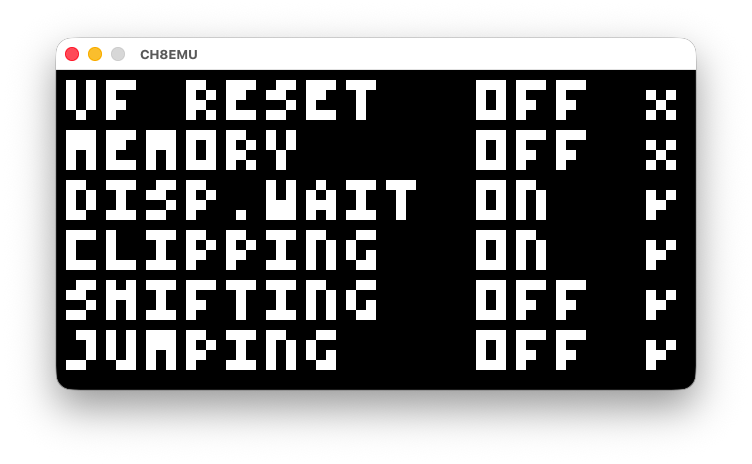
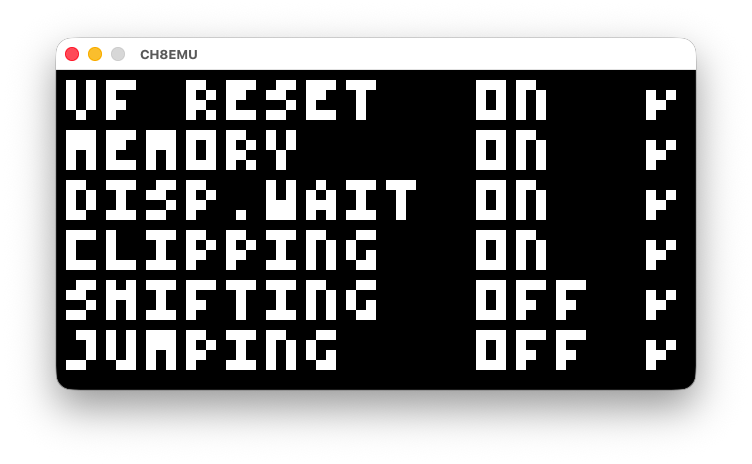
BUGFIX: quirks.ch8 test rom pass

diff --git a/CHIP8/Source/CH8CPU.cpp b/CHIP8/Source/CH8CPU.cpp
@@ -48,7 +48,16 @@ bool CH8CPU::decode() {
             return true;
         }
     }
-    matchedInstruction = { "UNKNOWN", 0x0000, 0x0000, &CH8CPU::opInvalid, 2, 1 };
+    
+    // SAFE FALLBACK: Explicitly define fields cleanly without direct compound literal assignments 
+    // that confuse release-mode stack alignment checking.
+    matchedInstruction.mnemonic = "UNKNOWN";
+    matchedInstruction.mask = 0x0000;
+    matchedInstruction.id = 0x0000;
+    matchedInstruction.handler = &CH8CPU::opInvalid;
+    matchedInstruction.length = 2;
+    matchedInstruction.cycles = 1;
+
     return false;
 }
 
@@ -77,10 +86,18 @@ void CH8CPU::opArithmetic(Uint16 op) {
     Uint8 y = (op & 0x00F0) >> 4;
     switch (op & 0x000F) {
     case 0x0: V[x] = V[y]; break;
-    case 0x1: V[x] |= V[y]; break;
-    case 0x2: V[x] &= V[y]; break;
-    case 0x3: V[x] ^= V[y]; break;
-    
+    case 0x1:
+        V[x] |= V[y]; 
+        V[0xF] = 0; // Force-clear VF flag for original CHIP-8 behavior
+        break;
+    case 0x2:
+        V[x] &= V[y]; 
+        V[0xF] = 0; // Force-clear VF flag for original CHIP-8 behavior
+        break;
+    case 0x3:
+        V[x] ^= V[y]; 
+        V[0xF] = 0; // Force-clear VF flag for original CHIP-8 behavior
+        break;
     case 0x4: { // ADD Vx, Vy
         Uint16 sum = V[x] + V[y];
         V[x] = sum & 0xFF;
@@ -169,8 +186,20 @@ void CH8CPU::opTimersAndMemory(Uint16 op) {
         }
         case 0x29: I = V[x] * 5; break;
         case 0x33: writeBus(I, V[x]/100); writeBus(I+1, (V[x]/10)%10); writeBus(I+2, V[x]%10); break;
-        case 0x55: for (int i = 0; i <= x; ++i) writeBus(I + i, V[i]); break;
-        case 0x65: for (int i = 0; i <= x; ++i) V[i] = readBus(I + i); break;
+        case 0x55: 
+            for (int i = 0; i <= x; ++i) {
+                writeBus(I + i, V[i]);
+            }
+            // Explicitly step I forward by the total number of registers checked
+            I += x + 1; 
+            break;
+        case 0x65: 
+            for (int i = 0; i <= x; ++i) {
+                V[i] = readBus(I + i);
+            }
+            // Explicitly step I forward by the total number of registers checked
+            I += x + 1; 
+            break;
     }
 }
 
